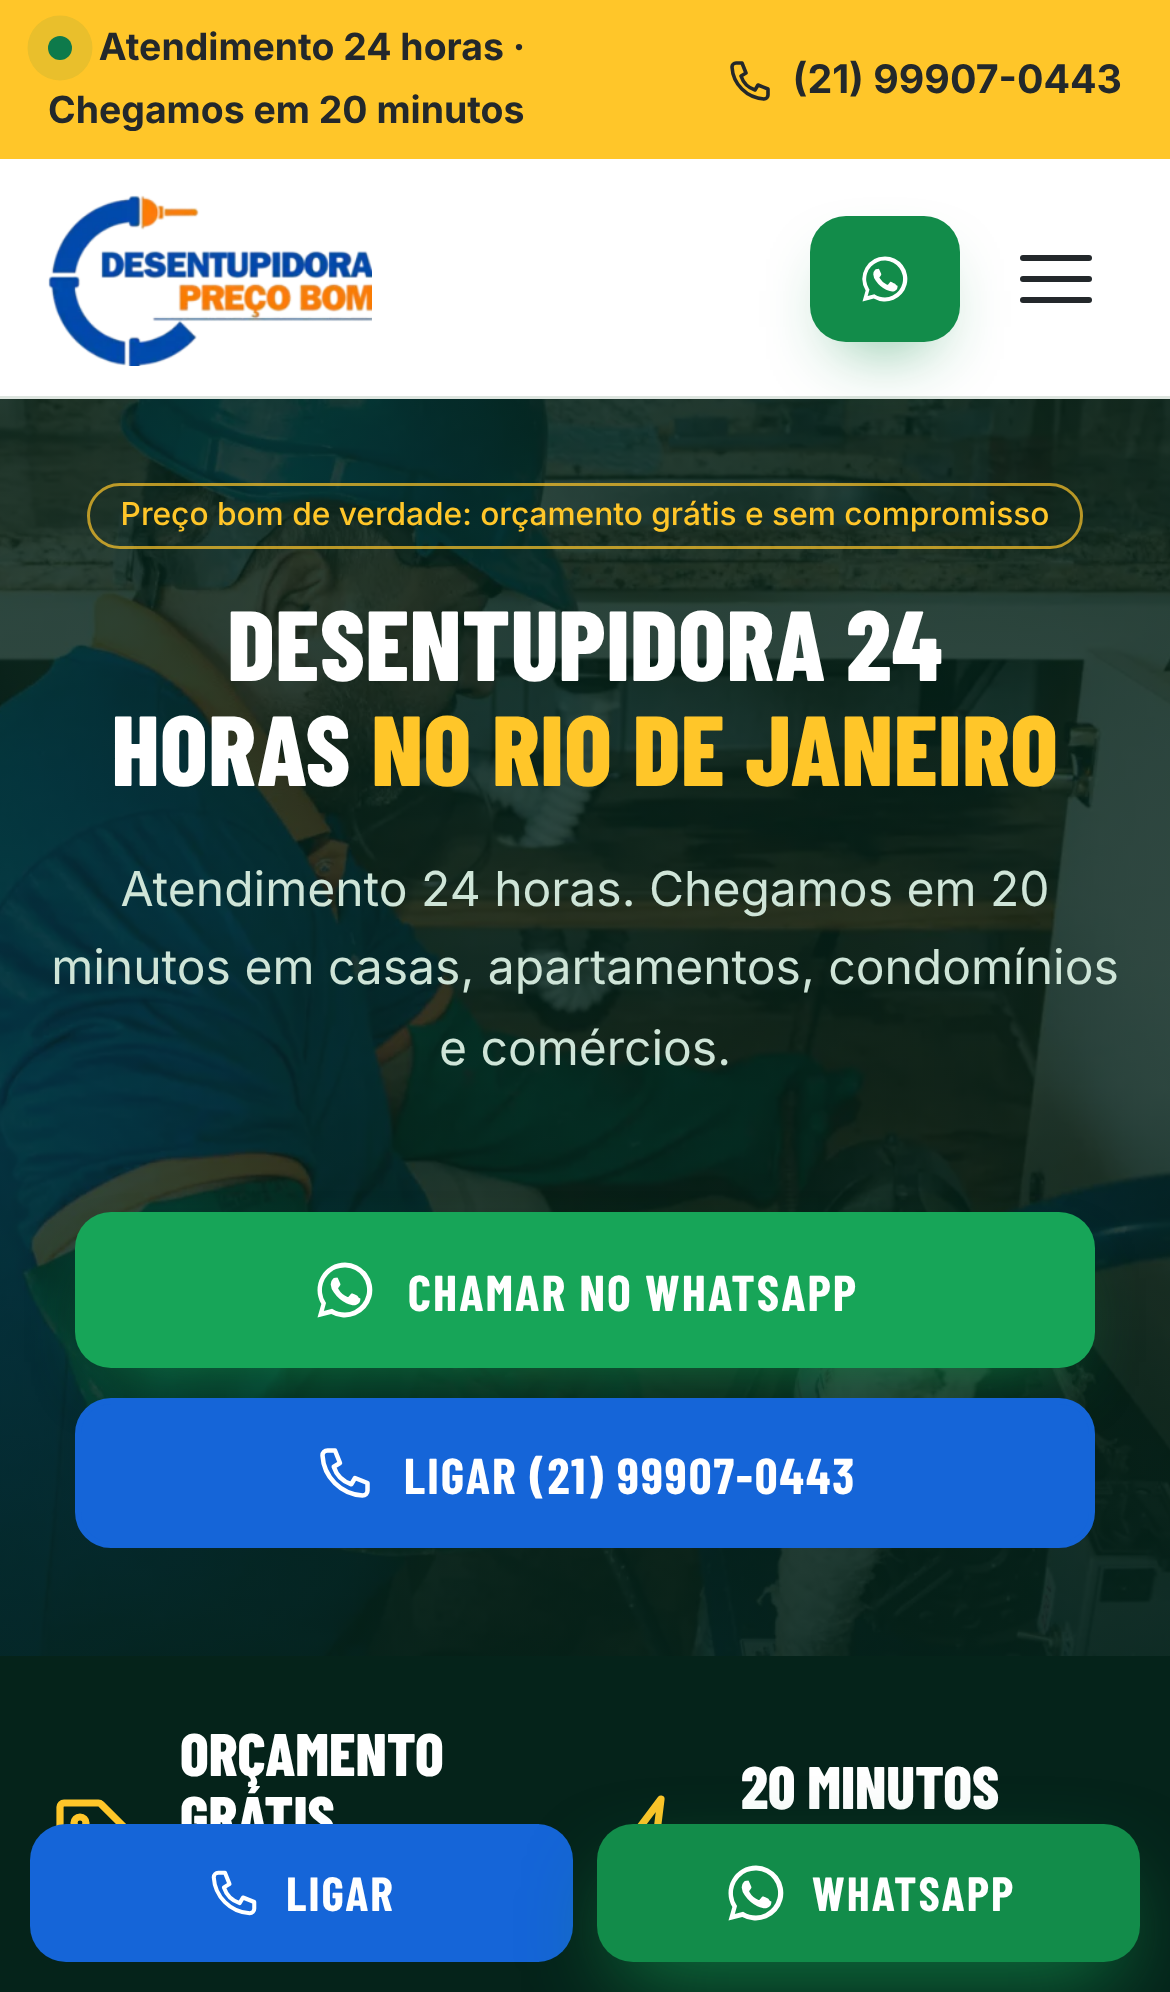
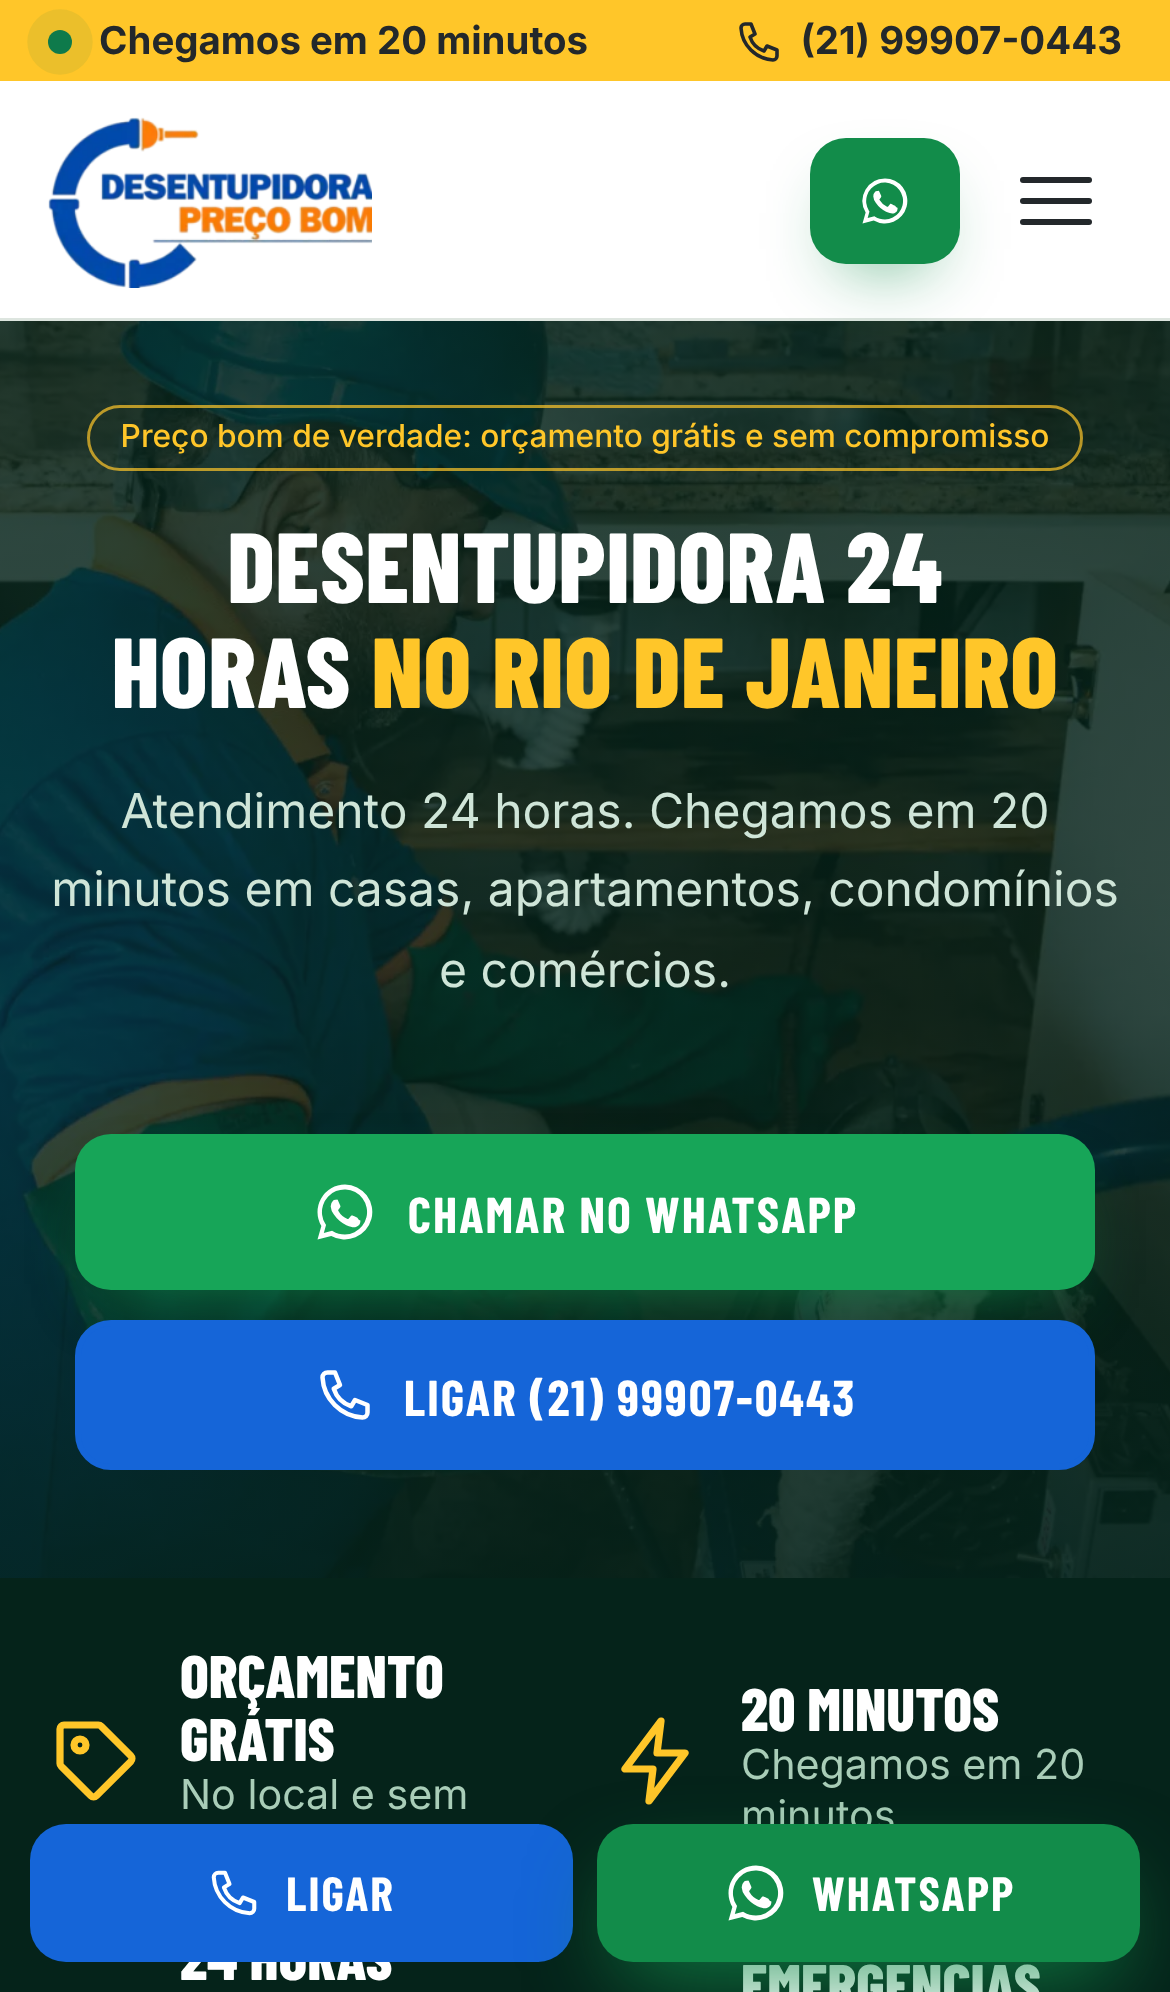
Afina a faixa amarela do topo no celular
No celular mostra só 'Chegamos em 20 minutos' e o telefone da praça.

Claude-Session: https://claude.ai/code/session_016urscvrE2h86qYs2MYomhA

diff --git a/src/styles/global.css b/src/styles/global.css
@@ -464,3 +464,13 @@ body:has(.nav-mobile[open]) .float-cta { display: none; }
   .hero-center .hero-badges { display: none; }
 }
 @media (max-width: 360px) { .hero-price { font-size: .6rem; } }
+
+/* faixa amarela mais fina; no celular só "Chegamos em 20 minutos" e o telefone */
+.topbar-inner { padding: 4px 0; }
+@media (max-width: 700px) {
+  .topbar-24h { display: none; }
+  .topbar { font-size: .8rem; }
+  .topbar-inner { padding: 3px 0; }
+  .topbar-inner > span, .topbar-phone { font-size: .8rem; white-space: nowrap; }
+  .nav-mobile nav { top: 96px; }
+}
